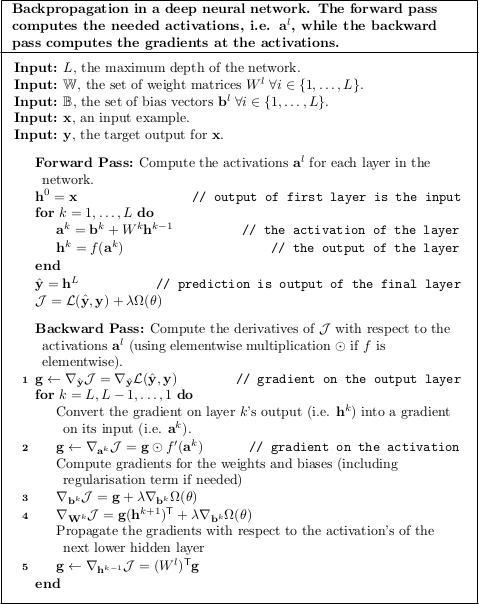
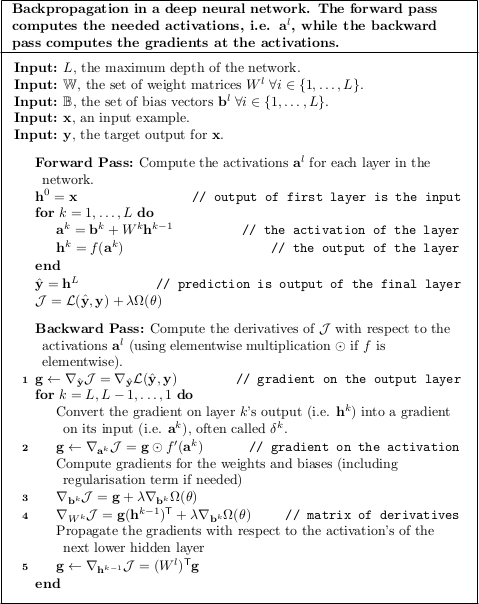
Added notes on 4 fundamental equations of backprop

diff --git a/Feedforward/Backpropagation.html b/Feedforward/Backpropagation.html
@@ -352,6 +352,13 @@
             <p>
                 The outline of a backpropagation algorithm for a deep neural network can be seen below.
 
+                The symbol $\odot$ in the algorithm is the elementwise Hadamard or Schur product, e.g.
+                $(1, 2)^{\mathsf{T}} \odot (3, 4)^{\mathsf{T}} = (1 * 3, 2 * 4)^{\mathsf{T}} = (3, 8)^{\mathsf{T}}$.
+
+                For both passes the loops are over layers $1, \ldots, L$.
+
+                This is because layer 0 is the input layer, and we don't need to compute outputs or gradients for it.
+
                 Concentrating on the backward pass to compute gradients, we can see that there are five equations
                 that suffice to compute the gradients.
 
@@ -359,64 +366,278 @@
                 backpropagation:
             </p>
             <ol>
-                <li><b>The gradient on the output layer activation</b></li>
-                <li><b>The gradient on the activation of layer $l-1$ with respect to that of layer $l$</b></li>
+                <li><b>The gradient on the output layer's activation</b></li>
                 <li><b>The gradient of the cost with respect to a bias parameter</b></li>
                 <li><b>The gradient of the cost with respect to a weight parameter</b></li>
+                <li><b>The gradient on the activation of layer $l-1$ with respect to that of layer $l$</b></li>
             </ol>
             <img src="../Images/Feedforward/MLPBackprop.png">
-            <h3>The gradient on the output layer activation</h3>
-            <p></p>
-            <h3>The gradient on the activation of layer $l-1$ with respect to that of layer $l$</h3>
-            <p></p>
+            <h3>The gradient on the output layer's activation</h3>
+            <p>
+                The gradient on the output layer's activation is computed via equations $1$ and the first pass of $2$
+                in the algorithm.
+
+                From $1$ we have that the gradient of the cost with respect to the output of layer $L$.
+
+                This is simply the loss portion of the cost, as
+                $\frac{\partial \mathcal{J}}{\partial \hat{\mathbf{y}}_i}$ will simply be
+                $\frac{\partial \mathcal{L}}{\partial \hat{\mathbf{y}}_i}$ as the regularisation term does not involve
+                $\hat{\mathbf{y}}$.
+
+                Applying $2$ then gives us the gradient of the cost with respect to the activations of layer $L$'s
+                neurons, i.e. $\nabla_{\mathbf{a}^L} \mathcal{J}$.
+
+                Combined, these compute the gradient by multiplying the gradient at the outputs of layer $L$'s neurons
+                ($\nabla_{\mathbf{h}^L} \mathcal{J}$) by the derivative of the output layer's activation function.
+
+                This propagates the gradient backwards through the neuron from the output to the input ends of it.
+
+                Intuitively, $\nabla_{\mathbf{h}^L} \mathcal{J}$ tells us how the cost depends on the output of layer
+                $L$, while $f'(\mathbf{a}^L)$ tells us how fast the activation function is changing at $\mathbf{a}^L$.
+
+                A small value for an element $i$ in either $\nabla_{\mathbf{h}^L} \mathcal{J}$ or $f'(\mathbf{a}^L)$
+                will cause $\mathbf{g}_i$ to have a small value, thereby indicating that changes to the weights entering
+                neurons in layer $L$ will not have much affect on the cost through neuron $i$.
+            </p>
             <h3>The gradient of the cost with respect to a bias parameter</h3>
-            <p></p>
+            <p>
+                Equation $3$ in the algorithm is used to compute the gradient of the cost with respect to bias
+                parameters that feed into neurons in layer $l$.
+
+                This is equal to the gradient on the activations of the neurons that the biases feed into plus the
+                derivative of the regularisation term with respect to the bias parameters.
+
+                The regularisation term appears here as it acts on parameters (biases and weights) not on activations.
+
+                There are therefore essentially two sets of paths through the computational graph that represents the
+                neural network: one through the activations and the loss function $\mathcal{L}$ and another through the
+                regularisation term.
+
+                This path through the regularisation term is only relevant to the bias and weight parameters, as can be
+                seen from the <a href="#BackpropTrainingExample">training</a> example.
+
+                The equivalence of the gradients of $\mathbf{a}^l$ and $\mathbf{b}^l$ (ignoring the regularisation
+                term and considering only one neuron in layer $l$) can be seen as
+                $$
+                    \frac{\partial \mathcal{J}}{\partial \mathbf{b}^l_j} =
+                        \frac{\partial \mathcal{J}}{\partial \mathbf{a}^l_j}
+                        \frac{\partial \mathbf{a}^l_j}{\partial \mathbf{b}^l_j}
+                $$
+
+                As $\mathbf{a}^l = \mathbf{b}^l + W^l \mathbf{h}^{l-1}$, the derivative of $\mathbf{a}^l$ with respect
+                to $\mathbf{b}^l$ is 1, and
+                $\frac{\partial \mathcal{J}}{\partial \mathbf{b}^l} =
+                \frac{\partial \mathcal{J}}{\partial \mathbf{a}^l}$.
+
+                Therefore we have
+                $$\nabla_{\mathbf{b}^l} \mathcal{J} = \nabla_{\mathbf{a}^l} \mathcal{J}$$
+            </p>
             <h3>The gradient of the cost with respect to a weight parameter</h3>
-            <p></p>
+            <p>
+                Equation $4$ in the algorithm allows us to calculate the gradient of the cost with respect to the
+                weight parameters that feed into neurons in layer $l$ of the network.
+
+                The result of this is a matrix of partial derivatives $\nabla_{W^l} \mathcal{J}$ with each row $j$
+                containing $(\nabla_{W^l_j} \mathcal{J})^{\mathsf{T}}$, the derivatives of the cost with respect to the
+                weight parameters that feed into node $j$ in layer $l$.
+
+                The regularisation term appears in the equation for calculating these derivatives for the same reasons
+                as it does for the bias parameter.
+
+                Given that $\frac{\partial \mathcal{J}}{\partial \mathbf{a}^l} = \mathbf{g}$ and
+                $\mathbf{a}^l = \mathbf{b}^l + W^l \mathbf{h}^{l-1}$, we can derive equation $4$ (ignoring the
+                regularisation term) by finding the derivative of the cost with respect to an individual weight
+                $W^l_ji$.
+
+                As weight $W^l_ji$ goes from neuron $i$ in layer $l-1$ to neuron $j$ in layer $l$, we have:
+                $$
+                    \begin{align}
+                        \frac{\partial \mathcal{J}}{\partial W^l_{ji}}
+                        & = \frac{\partial \mathcal{J}}{\partial \mathbf{a}^l_j}
+                            \frac{\partial \mathbf{a}^l_j}{\partial W^l_ji} \\
+                        & = \mathbf{g_j} \frac{\partial \mathbf{a}^l_j}{\partial W^l_{ji}}
+                    \end{align}
+                $$
+
+                Given $\mathbf{a}^l = \mathbf{b}^l + W^l \mathbf{h}^{l-1}$, we can break this down into the elements
+                of $\mathbf{a}^l$ as $\mathbf{a}^l_j = \sum_i \mathbf{b}^l_j + W^l_{ji} \mathbf{h}^{l-1}_i$
+                giving
+                $\frac{\partial \mathbf{a}^l_j}{\partial W^l_{ji}} = \mathbf{h}^{l-1}_i$.
+
+                Therefore,
+                $$\frac{\partial \mathcal{J}}{\partial W^l_{ji}} = \mathbf{g_j} \mathbf{h}^{l-1}_i$$
+
+                Expanding this out into a matrix gives
+                $$
+                    \begin{align}
+                        \frac{\partial \mathcal{J}}{\partial W^l}
+                        & = \begin{bmatrix}
+                                \mathbf{g}_1 \mathbf{h}^{l-1}_1 & \ldots & \mathbf{g}_1 \mathbf{h}^{l-1}_m \\
+                                \vdots & \ddots & \vdots \\
+                                \mathbf{g}_n \mathbf{h}^{l-1}_1 & \ldots & \mathbf{g}_n \mathbf{h}^{l-1}_m
+                            \end{bmatrix} \\
+                        & = \begin{bmatrix} \mathbf{g}_1 \\ \vdots \\ \mathbf{g}_n \end{bmatrix}
+                            \begin{bmatrix} \mathbf{h}^{l-1}_1, \ldots, \mathbf{h}^{l-1}_m \end{bmatrix} \\
+                        & = \mathbf{g} (\mathbf{h}^{l-1})^{\mathsf{T}}
+                    \end{align}
+                $$
+
+                Equally this could be arrived at by noting that when derivating $\mathcal{J}$ with respect to a matrix
+                $W^l$ the result is a matrix of partial derivatives
+                $$
+                    \begin{align}
+                    \frac{\partial \mathcal{J}}{\partial W^l}
+                    & = \begin{bmatrix}
+                        \frac{\partial \mathcal{J}}{\partial W^l_{11}} &
+                            \ldots &
+                            \frac{\partial \mathcal{J}}{\partial W^l_{1m}} \\
+                        \vdots & \ddots & \vdots\\
+                        \frac{\partial \mathcal{J}}{\partial W^l_{n1}} &
+                            \ldots &
+                            \frac{\partial \mathcal{J}}{\partial W^l_{nm}} \\
+                        \end{bmatrix}
+                    \end{align}
+                $$
+                assuming $\mathbf{h}^l \in \mathbb{R}^m$ and $\mathbf{h}^{l-1} \in \mathbb{R}^n$, i.e. there are
+                $n$ neurons in layer $l-1$ and $m$ in layer $l$.
+
+                Either approach gives an $\mathsf{n} \times \mathsf{m}$ matrix, which is the same dimension-wise as
+                $W^l$ when layer $l$ has $n$ neurons and layer $l-1$ has $m$.
+
+                This also indicates how the derivative of the cost with respect to a weight parameter can be
+                interpreted.
+
+                For weight $W^l_{ji}$ from neuron $i$ in layer $l-1$ to neuron $j$ in layer $l$, we have the
+                gradient at the input to neuron $j$ (the end of the weight) as $\mathbf{g}_j$ and the output
+                from neuron $i$ (the start of the weight) as $\mathbf{h}^{l-1}_i$.
+
+                The gradient of the cost with respect to this parameter can then be read out from the
+                $\nabla_{W^l} \mathcal{J}$ matrix as
+                $(\nabla_{W^l} \mathcal{J})_{ji} = \mathbf{g}_j \mathbf{h}^{l-1}_i$.
+
+                This indicates that if the gradient at the input to neuron $j$ is small (and therefore has minimal
+                impact on the cost) or the output of neuron $i$ is small, the gradient of the cost with respect to
+                the weight will be small.
+
+                The weight therefore has little impact on the cost, and so will learn slowly.
+            </p>
+            <h3>The gradient on the activation of layer $l-1$ with respect to that of layer $l$</h3>
+            <p>
+                The gradient on the activation of layer $l-1$ with respect to that of layer $l$ is computed via
+                equation $5$ and then equation $2$ on the next pass.
+
+                Combined, these make the gradient for layer $l-1$ equal to
+                $(W^l)^\mathsf{T} \mathbf{g} \odot f'(\mathbf{a}^{l-1})$.
+
+                In order to derive this we need to write the derivative of $\mathbf{a}^{l-1}$ in terms of
+                $\mathbf{a}^l$.
+
+                Taking the same approach as above and considering each neuron in $\mathbf{a}^{l-1}$ individually,
+                we need to compute (ignoring the regularisation term again):
+                $$
+                    \begin{align}
+                        \frac{\partial \mathcal{J}}{\partial \mathbf{a}^{l-1}_i}
+                        & = \sum_j
+                                \frac{\partial \mathcal{J}}{\partial \mathbf{a}^l_j}
+                                \frac{\partial \mathbf{a}^l_j}{\partial \mathbf{a}^{l-1}_i} \\
+                        & = \sum_j
+                                \frac{\partial \mathcal{J}}{\partial \mathbf{a}^l_j}
+                                \frac{\partial \mathbf{a}^l_j}{\partial \mathbf{h}^{l-1}_i}
+                                \frac{\partial \mathbf{h}^{l-1}_i}{\partial \mathbf{a}^{l-1}_i}
+                    \end{align}
+                $$
+                with the $sum_j$ necessary as there are $j$ ways for the derivative to propagate from layer $l$ to
+                layer $l-1$, assuming there are $j$ neurons in layer $l$.
+
+                As $\mathbf{a}^l = \mathbf{b}^l + W^l \mathbf{h}^{l-1}$ and $\mathbf{h}^{l-1} = f(\mathbf{a}^{l-1})$,
+                we have
+                $$
+                    \begin{align}
+                        \mathbf{a}^l_j & = \mathbf{b}^l_j + \sum_i W^l_{ji} \mathbf{h}^{l-1}_i \\
+                        & = \mathbf{b}^l_j + \sum_i W^l_{ji} f(\mathbf{a}^{l-1}_i)
+                    \end{align}
+                $$
+                and therefore
+                $$\frac{\partial \mathbf{a}^l_j}{\partial \mathbf{a}^{l-1}_i} = W^l_{ji} f'(\mathbf{a}^{l-1}_i)$$
+
+                Plugging this in gives:
+                $$
+                    \begin{align}
+                        \frac{\partial \mathcal{J}}{\partial \mathbf{a}^{l-1}_i}
+                        & = \sum_j
+                                \frac{\partial \mathcal{J}}{\partial \mathbf{a}^l_j}
+                                \frac{\partial \mathbf{a}^l_j}{\partial \mathbf{h}^{l-1}_i}
+                                \frac{\partial \mathbf{h}^{l-1}_i}{\partial \mathbf{a}^{l-1}_i} \\
+                        & = \sum_j \mathbf{g}_j W^l_{ji} f'(\mathbf{a}^{l-1}_i)
+                    \end{align}
+                $$
+
+                Composing all the $\frac{\partial \mathcal{J}}{\partial \mathbf{a}^{l-1}_i}$ terms as
+                a single vector gives:
+                $$
+                    \begin{align}
+                        \nabla_{\mathbf{a}^{l-1}} \mathcal{J}
+                        & = \begin{bmatrix}
+                                \sum_j \mathbf{g}_j W^l_{j1} f'(\mathbf{a}^{l-1}_1) \\
+                                \vdots \\
+                                \sum_j \mathbf{g}_j W^l_{jn} f'(\mathbf{a}^{l-1}_n)
+                            \end{bmatrix} \\
+                        & = \begin{bmatrix}
+                                \mathbf{g}_1 W^l_{11} f'(\mathbf{a}^{l-1}_1)
+                                    & + & \ldots
+                                    & + & \mathbf{g}_m W^l_{m1} f'(\mathbf{a}^{l-1}_1) \\
+                                \vdots & & \ldots & & \vdots \\
+                                \mathbf{g}_1 W^l_{1n} f'(\mathbf{a}^{l-1}_n)
+                                    & + & \ldots
+                                    & + & \mathbf{g}_m W^l_{mn} f'(\mathbf{a}^{l-1}_n)
+                            \end{bmatrix} \\
+                        & = \left(
+                            \begin{bmatrix}
+                                \mathbf{g}_1 W^l_{11} & + & \ldots & + & \mathbf{g}_m W^l_{m1} \\
+                                \vdots & & \dots & & \vdots \\
+                                \mathbf{g}_1 W^l_{1n} & + & \ldots & + & \mathbf{g}_m W^l_{mn}
+                            \end{bmatrix}
+                            \right)
+                            \odot
+                            \begin{bmatrix}
+                                f'(\mathbf{a}^{l-1}_1) \\ \vdots \\ f'(\mathbf{a}^{l-1}_n)
+                            \end{bmatrix} \\
+                        & = \left(
+                            \begin{bmatrix}
+                                W^l_{11} & \ldots & W^l_{m1} \\
+                                \vdots & \ldots & \vdots \\
+                                W^l_{1n} & \ldots & W^l_{mn}
+                            \end{bmatrix}
+                            \begin{bmatrix}
+                                \mathbf{g}_1 \\ \vdots \\ \mathbf{g}_m
+                            \end{bmatrix}
+                            \right)
+                            \odot
+                            \begin{bmatrix}
+                                f'(\mathbf{a}^{l-1}_1) \\ \vdots \\ f'(\mathbf{a}^{l-1}_n)
+                            \end{bmatrix} \\
+                        & = (W^l)^{\mathsf{T}} \mathbf{g} \odot f'(\mathbf{a}^{l-1})
+                    \end{align}
+                $$
+                assuming $\mathbf{a}^l \in \mathbb{R}^m$ and $\mathbf{a}^{l-1} \in \mathbb{R}^n$, i.e. there are
+                $n$ neurons in layer $l-1$ and $m$ in layer $l$.
+            </p>
         </section>
-
-
-    <br><br><br><br>
-
-    <p>
-        Commonly, neural networks are trained via stochastic gradient descent (SGD) using mini-batches, or one of its
-        many variants. With a batch size of one, the SGD update rule is
-        $$\mathbf{w} \leftarrow \mathbf{w} - \eta\nabla_{w}F_i$$
-        where $\eta$ is the learning rate and $\nabla_{w}F_i$ the gradient of the objective function with respect to
-        the parameters $\mathbf{w}$ as calculated on a single example $(x_i, y_i)$. The learning rate can be fixed, as
-        in vanilla SGD, or adaptively tuned, as in the popular variants
-        <a href="../General/Optimisation.html#AdaGrad">AdaGrad</a>,
-        <a href="../General/Optimisation.html#AdaDelta">AdaDelta</a>,
-        <a href="../General/Optimisation.html#RMSprop">RMSprop</a> and
-        <a href="../General/Optimisation.html#Adam">Adam</a>.
-    </p>
-    <p>
-        To calculate the gradient in a feedforward network, backpropagation proceeds through a forward and backward
-        pass. In the forward pass an example (or mini-batch) is propogated through the network to produce a value
-        $v_j$ at each node and outputs $\hat{\mathbf{y}}$ at the final/top layer. Next the loss
-        $\mathcal{L}(\hat{y}_k, y_k)$ is calcualted at each output node $k$. For each output node $k$ we then calculate
-        $$\delta_k = \frac{\partial \mathcal{L}(\hat{y}_k, y_k)}{\partial \hat{y}_k} \cdot l'_k(a_k).$$
-        Given the $\delta_j$ values for each node in the layer following/above node $i$ such that tere is an edge from
-        $i$ to $j$, we calculate
-        $$\delta_i = l'_i(a_i) \sum_{j} \delta_j \cdot w_{ji}.$$
-        Each value $\delta_i$ represents the derivative $\partial \mathcal{L} / \partial a_i$ of the total loss of the
-        network with respect to node $i$'s incoming activation. Given the values $v_i$ calcualted during the forward
-        pass and the values $\delta_j$ calculated during the backward pass, the derivative of the loss function
-        $\mathcal{L}$ with resect to the weight parameter $w_{ji}$ is
-        $$\frac{\partial \mathcal{L}}{\partial w_{ji}} = \delta_j v_i.$$
-    </p>
-    <p>Uncited References:</p>
-    <ul>
-        <li>
-            <a href="../References.html#NNOnlineBook">
-                Neural Networks and Deep Learning
-            </a>
-        </li>
-        <li>
-            <a href="../References.html#DeepLearningBook">
-                Deep Learning
-            </a>
-        </li>
-    </ul>
+        <section id="BackpropTrainingExample">
+            <h2>Backpropagation Training Example</h2>
+        </section>
+        <p>Uncited References:</p>
+        <ul>
+            <li>
+                <a href="../References.html#NNOnlineBook">
+                    Neural Networks and Deep Learning
+                </a>
+            </li>
+            <li>
+                <a href="../References.html#DeepLearningBook">
+                    Deep Learning
+                </a>
+            </li>
+        </ul>
     </body>
 </html>

diff --git a/Feedforward/Introduction.html b/Feedforward/Introduction.html
@@ -42,7 +42,7 @@
         </p>
         <p>
             Each node $n^{l}_{i}$ in the network has two values associated with it: an activation value
-            $\mathbf{a}^{l}_{i}$ and an output value $\mathbf{h}^{l}_{i}$.
+            $\mathbf{a}^{l}_{i}$ (sometimes called $\mathbf{z}^l_i$) and an output value $\mathbf{h}^{l}_{i}$.
 
             The activation value is defined to be the weighted sum of a node's inputs, while the output value is
             computed by the node and propagated forward along edges leaving it.

diff --git a/Algorithms/Feedforward/MLPBackProp.tex b/Algorithms/Feedforward/MLPBackProp.tex
@@ -47,13 +47,14 @@
         \Comment*{gradient on the output layer}
     \For{$k = L, L-1, \ldots, 1$}{
         Convert the gradient on layer $k$'s output (i.e. $\mathbf{h}^k$) into a gradient on
-            its input (i.e. $\mathbf{a}^k$). \;
+            its input (i.e. $\mathbf{a}^k$), often called $\delta^k$. \;
         \nl $\mathbf{g} \leftarrow \nabla_{\mathbf{a}^k} \mathcal{J} = \mathbf{g} \odot f'(\mathbf{a}^k)$
             \Comment*{gradient on the activation}
         Compute gradients for the weights and biases (including regularisation term if needed) \;
         \nl $\nabla_{\mathbf{b}^k} \mathcal{J} = \mathbf{g} + \lambda \nabla_{\mathbf{b}^k} \Omega(\theta)$ \;
-        \nl $\nabla_{\mathbf{W}^k} \mathcal{J} = \mathbf{g} (\mathbf{h}^{k+1})^{\mathsf{T}} +
-            \lambda \nabla_{\mathbf{b}^k} \Omega(\theta)$ \;
+        \nl $\nabla_{W^k} \mathcal{J} = \mathbf{g} (\mathbf{h}^{k-1})^{\mathsf{T}} +
+            \lambda \nabla_{\mathbf{b}^k} \Omega(\theta)$
+            \Comment*{matrix of derivatives}
         Propagate the gradients with respect to the activation's of the next lower hidden layer \;
         \nl $\mathbf{g} \leftarrow \nabla_{\mathbf{h}^{k-1}} \mathcal{J} = (W^l)^\mathsf{T} \mathbf{g}$
     }
